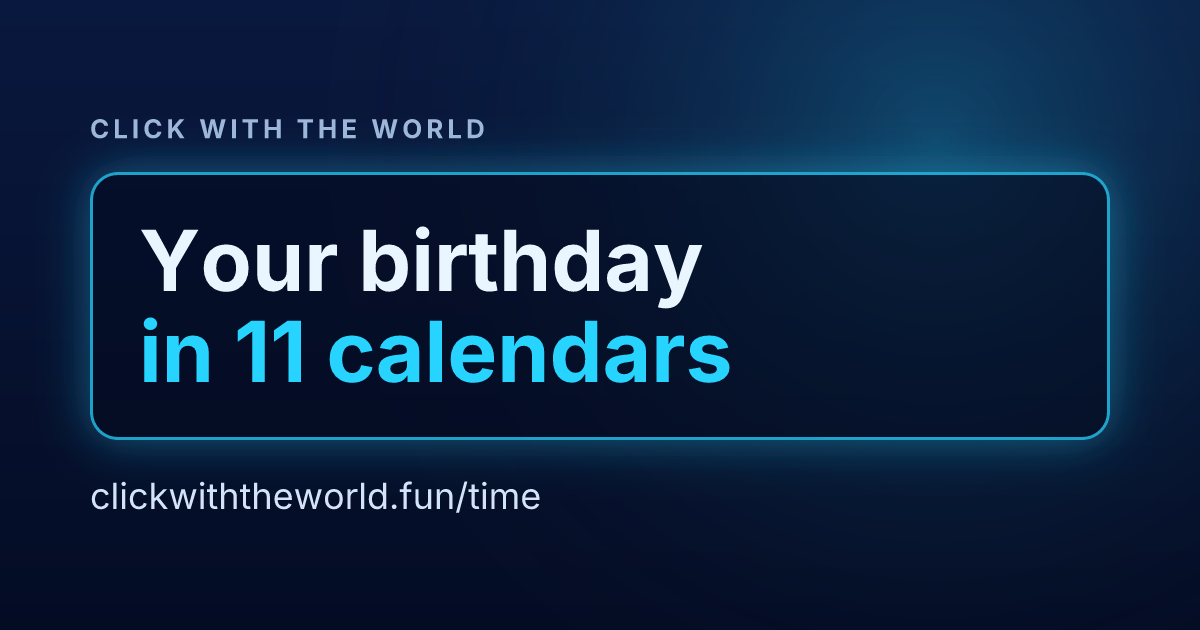
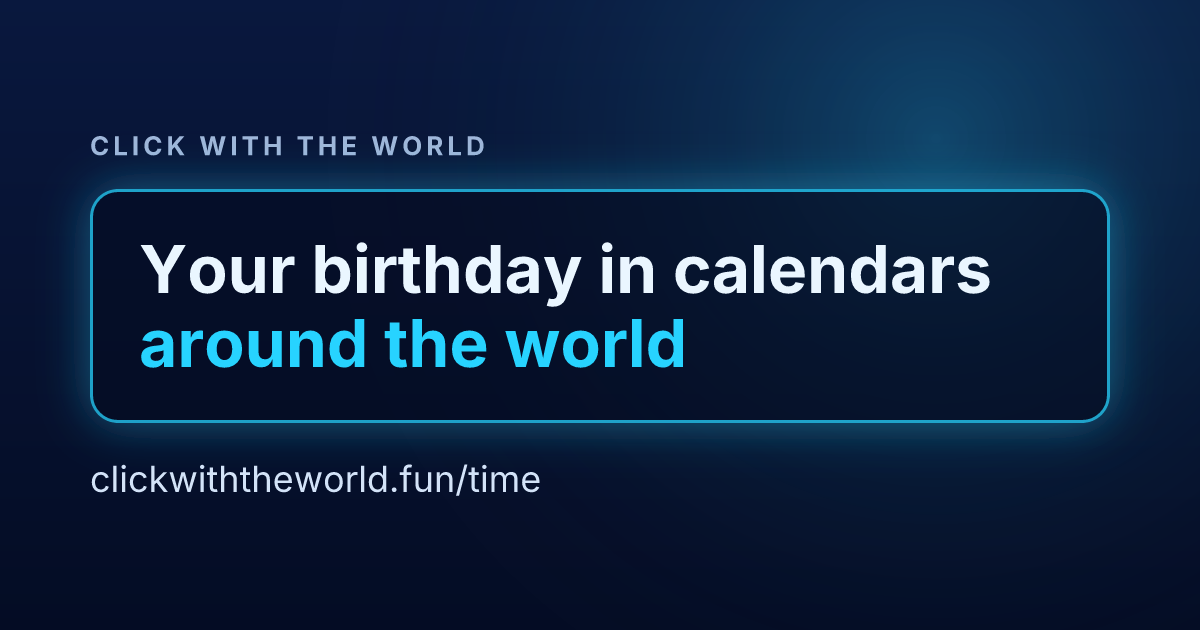
Time: next birthday in the share text and image; label fixes; new share image text
- Birthday share: each calendar's line and image row now carries the next
  birthday in that calendar (same search as the results list). The image
  shows "Next: 16 Oct 2026 · in 5 days", "(exp.)" on the Hijri date, and
  "Today!" on the day itself. "Hide my birth year" leaves these in place.
- Share text: the Buddhist line reads "Buddhist (Thai): ..."; the "Share
  today" text uses the same tradition labels.
- assets/og-time.png now reads "Your birthday in calendars around the world".

Changed region(s): [[0.1233, 0.3619, 0.8325, 0.6032], [0.0617, 0.6333, 0.925, 0.8143], [0.0617, 0.181, 0.925, 0.3317]]

diff --git a/time.js b/time.js
@@ -31,6 +31,7 @@ const durationText = (ms) => {
 };
 
 const GREG_LONG = new Intl.DateTimeFormat("en-GB", { weekday: "short", day: "numeric", month: "long", year: "numeric" });
+const GREG_SHORT = new Intl.DateTimeFormat("en-GB", { day: "numeric", month: "short", year: "numeric" });
 
 // ---------- calendars ----------
 const SUPPORTED = (() => {
@@ -116,7 +117,7 @@ const CALENDAR_DEFS = [
     started: "57 BCE", origin: "traditionally linked to King Vikramaditya", note: SHAKA_NOTE },
   { id: "kali", kind: "offset", intl: "indian", offset: 3179, name: "Kali Yuga", short: "Kali Yuga", tradition: "Hindu", expired: true,
     started: "3102 BCE", origin: "traditional start of the Kali Yuga", note: SHAKA_NOTE },
-  { id: "buddhist", kind: "intl", intl: "buddhist", name: "Buddhist", short: "Buddhist", tradition: "Buddhist (Thai)", suffix: "BE",
+  { id: "buddhist", kind: "intl", intl: "buddhist", name: "Buddhist", short: "Buddhist", tradition: "Buddhist (Thai)", shareLabel: "Buddhist (Thai)", suffix: "BE",
     started: "543 BCE", origin: "traditional year of the Buddha's Parinirvana (Thai reckoning)",
     note: "Thai reckoning; Sri Lanka/Myanmar count differs by 1 year." },
   { id: "nanakshahi", kind: "nanakshahi", name: "Nanakshahi", short: "Nanakshahi", tradition: "Sikh", suffix: "NS",
@@ -127,6 +128,9 @@ const CALENDAR_DEFS = [
   { id: "chinese", kind: "intl", intl: "chinese", name: "Chinese", short: "Chinese", tradition: "Chinese · East Asian", suffix: "",
     cycle: "Counted in 60-year cycles; no single starting year" },
 ];
+
+// How a calendar is named in share text: "Hijri (Islamic)".
+const shareName = (cal) => cal.shareLabel || `${cal.short} (${cal.tradition})`;
 
 // Calendars the browser can't do are dropped here, so their cards never render.
 const CALENDARS = CALENDAR_DEFS.map((def) => {
@@ -309,9 +313,9 @@ const RTL_TEXT = /[\u0590-\u08FF\uFB1D-\uFDFF\uFE70-\uFEFC]/;
 
 // Draws one 1080x1350 share card: a title, an optional subtitle, an optional
 // highlighted line, a list of rows, and the site name with the page address.
-// A row is [label, value] or [label, value, sublabel]; the sublabel is drawn
-// smaller and dimmer under the label. The title can be a visitor's name in
-// any script.
+// A row is [label, value, sublabel, subvalue]; the last two are optional and
+// are drawn smaller and dimmer under the label and under the value. The title
+// can be a visitor's name in any script.
 function drawCard(canvas, { title, subtitle, highlight, rows }) {
   canvas.width = IMG_W;
   canvas.height = IMG_H;
@@ -397,7 +401,7 @@ function drawCard(canvas, { title, subtitle, highlight, rows }) {
 
   const bottom = IMG_H - 220;
   const rowH = Math.min(96, (bottom - top) / rows.length);
-  rows.forEach(([label, value, sub], i) => {
+  rows.forEach(([label, value, sub, subValue], i) => {
     const y = top + rowH * i;
     ctx.strokeStyle = "rgba(39, 211, 255, 0.22)";
     ctx.lineWidth = 1.5;
@@ -421,8 +425,14 @@ function drawCard(canvas, { title, subtitle, highlight, rows }) {
     // The value is shrunk to whatever room the label column leaves.
     ctx.textAlign = "right";
     ctx.fillStyle = "#eaf6ff";
-    fit(value, 600, 34, BODY, IMG_W - 2 * M - labelWidth - 36);
-    ctx.fillText(value, IMG_W - M, base);
+    const room = IMG_W - 2 * M - labelWidth - 36;
+    fit(value, 600, subValue ? 32 : 34, BODY, room);
+    ctx.fillText(value, IMG_W - M, subValue ? base - 16 : base);
+    if (subValue) {
+      ctx.fillStyle = "rgba(159, 182, 217, 0.9)";
+      fit(subValue, 400, 22, BODY, room, 16);
+      ctx.fillText(subValue, IMG_W - M, base + 16);
+    }
   });
   ctx.textAlign = "left";
 
@@ -527,9 +537,15 @@ function setupTodayShare() {
     const now = new Date();
     const today = startOfDay(now);
     const rows = CALENDARS.map((cal) => [cal.short, dateText(cal, today)]);
-    rows.push(["Click With The World", `Day ${siteDay(now)}`]);
+    const dayLine = `Day ${siteDay(now)}`;
+    rows.push(["Click With The World", dayLine]);
     return {
-      text: [`Today in ${count} calendars 🌍`, ...rows.map(([k, v]) => `${k}: ${v}`), `See yours: ${SHARE_URL}`].join("\n"),
+      text: [
+        `Today in ${count} calendars 🌍`,
+        ...CALENDARS.map((cal) => `${shareName(cal)}: ${dateText(cal, today)}`),
+        `Click With The World: ${dayLine}`,
+        `See yours: ${SHARE_URL}`,
+      ].join("\n"),
       card: { title: "Today around the world", rows },
       fileName: "today-around-the-world.png",
     };
@@ -683,20 +699,37 @@ function setupBirthday() {
   const shareCount = BIRTHDAY_CALENDARS.length;
   let name = "";
 
-  // What the Share row sends: the birth date in each Intl calendar. With
-  // "Hide my birth year" on, the year and the age are left out of both the
-  // text and the image.
+  // What the Share row sends: the birth date in each Intl calendar, with the
+  // next birthday in that calendar (the same search the results list uses).
+  // With "Hide my birth year" on, the birth year and the age are left out of
+  // both the text and the image; the next birthdays are future dates and stay.
   const refreshShare = setupSharePanel(el("bdayShare"), () => {
     if (!birth) return null;
     const hide = hideYear.checked;
+    const now = new Date();
+    const today = startOfDay(now);
+    const lines = [];
     const rows = BIRTHDAY_CALENDARS.map((cal) => {
       const p = cal.parts(birth);
-      return [cal.short, hide ? `${p.day} ${tidyMonth(p.month)}` : dateText(cal, birth), cal.tradition];
+      const value = hide ? `${p.day} ${tidyMonth(p.month)}` : dateText(cal, birth);
+      const next = nextBirthday(cal, birth, today);
+      let nextText = "";
+      let nextCard = "";
+      if (next) {
+        const inDays = daysBetween(today, next.date);
+        const date = GREG_SHORT.format(next.date);
+        // Hijri dates ahead depend on the moon, so the card marks them expected.
+        const expected = cal.id === "islamic" ? " (exp.)" : "";
+        nextText = inDays === 0 ? " → next: today" : ` → next: ${date}`;
+        nextCard = inDays === 0 ? "Today! 🎉" : `Next: ${date}${expected} · in ${plural(inDays, "day")}`;
+      }
+      lines.push(`${shareName(cal)}: ${value}${nextText}`);
+      return [cal.short, value, cal.tradition, nextCard];
     });
-    const [y, mo, d] = ageParts(birth, new Date());
+    const [y, mo, d] = ageParts(birth, now);
     const heading = name ? `${name} — birthday in ${shareCount} calendars` : `My birthday in ${shareCount} calendars`;
     return {
-      text: [`${heading} 🌍`, ...rows.map(([k, v, sub]) => `${k} (${sub}): ${v}`), `Find yours: ${SHARE_URL}`].join("\n"),
+      text: [`${heading} 🌍`, ...lines, `Find yours: ${SHARE_URL}`].join("\n"),
       card: {
         // With a name, the name is the big title and the rest moves to a subtitle.
         title: name || `My birthday in ${shareCount} calendars`,
